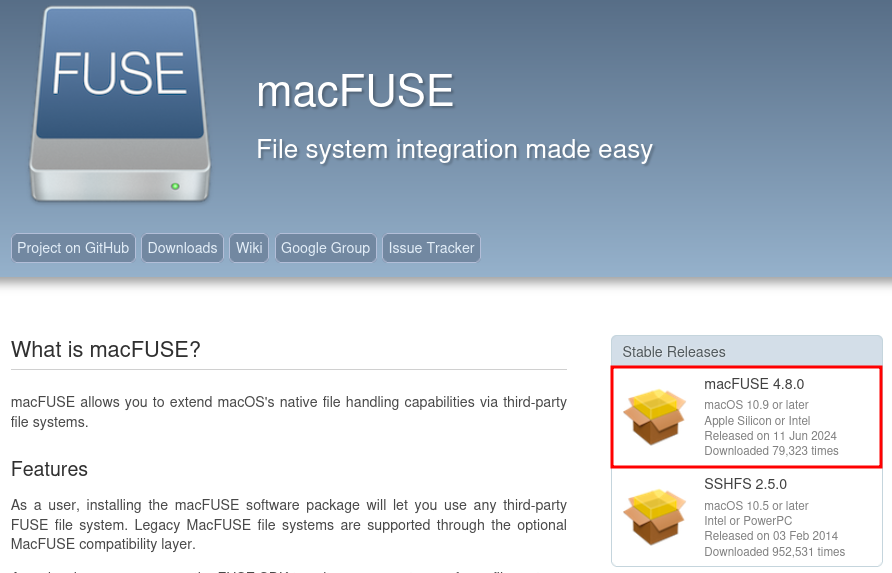
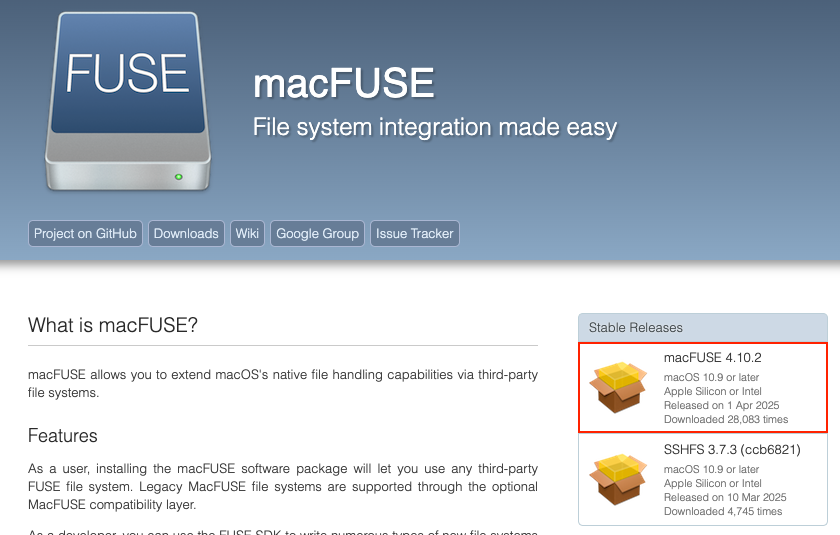
MacOS client installation doc update

diff --git a/docs/userguide/installation.rst b/docs/userguide/installation.rst
@@ -94,47 +94,25 @@ Parsec is available for Linux, Mac, and Windows operating systems.
 
       **Install macFUSE**
 
-      This section describe how to install macFUSE.
+      This section describes how to install macFUSE.
 
-      1. Get the latest version from the `macFUSE <https://osxfuse.github.io/>`_ website.
+      1. Get the latest version from the `macFUSE website <https://osxfuse.github.io/>`_.
 
       .. image:: screens/macfuse_download.png
           :align: center
           :alt: macFUSE download screen
 
-      2. Open the ``.dmg`` file and follow instructions to install.
+      2. Open the macFUSE ``.dmg`` file and follow instructions to install.
 
-        - If the opening fails, two options are available in `System Settings > Privacy and Security`: either check the `App Store and identified developers` box, or click `Open Anyway` if you don't want to change this setting, which will need to be done once to open the ``.dmg``, and possibly once more to start the installer.
+        - If you cannot open the ``.dmg`` file because it was not downloaded from the App Store, head to `System Settings > Privacy and Security` on your Mac and scroll down to the `Security` section. You can either check `App Store & Known Developers` in the `Allow applications from` dropdown menu to make this installation and further updates smoother, or click `Open Anyway` for a one-time authorization.
+
+        - At the end of the installation, you will be prompted to approve this extension in `System Settings > Privacy and Security`. Scroll down to the `Security` section, and click `Allow` as illustrated below.
 
         .. image:: screens/macfuse_current_allow.png
             :align: center
-            :alt: macFUSE current allow screen
+            :alt: macFUSE approve screen
 
-      3. Finally, reboot your Mac to complete the installation.
-
-      .. note::
-
-          On macOS 12 and older, if the installer fails to start, check the `App Store and identified developers` box in `System Settings > Security & Privacy`:
-
-          .. image:: screens/macfuse_previous_system_preferences.png
-              :align: center
-              :alt: macOS path to Security and Privacy
-
-          .. image:: screens/macfuse_previous_allow_developer.png
-              :align: center
-              :alt: macOS previous allow identified developer
-
-          To change this setting, click the lock first which will require admin rights.
-
-          Once the installation is done, a `System Extension Updated` window will pop up. Click `Open Security Preferences`, and click the lock, then click `Allow`:
-
-          .. image:: screens/macfuse_previous_system_extension.png
-              :align: center
-              :alt: Previous System Extension Updated window
-
-          .. image:: screens/macfuse_previous_allow_extension.png
-              :align: center
-              :alt: macOS previous allow extension
+      3. You will then be prompted to restart your Mac to complete the installation. Be mindful that the **Parsec app** will not function properly until this restart is done.
 
 
 Update Parsec app
